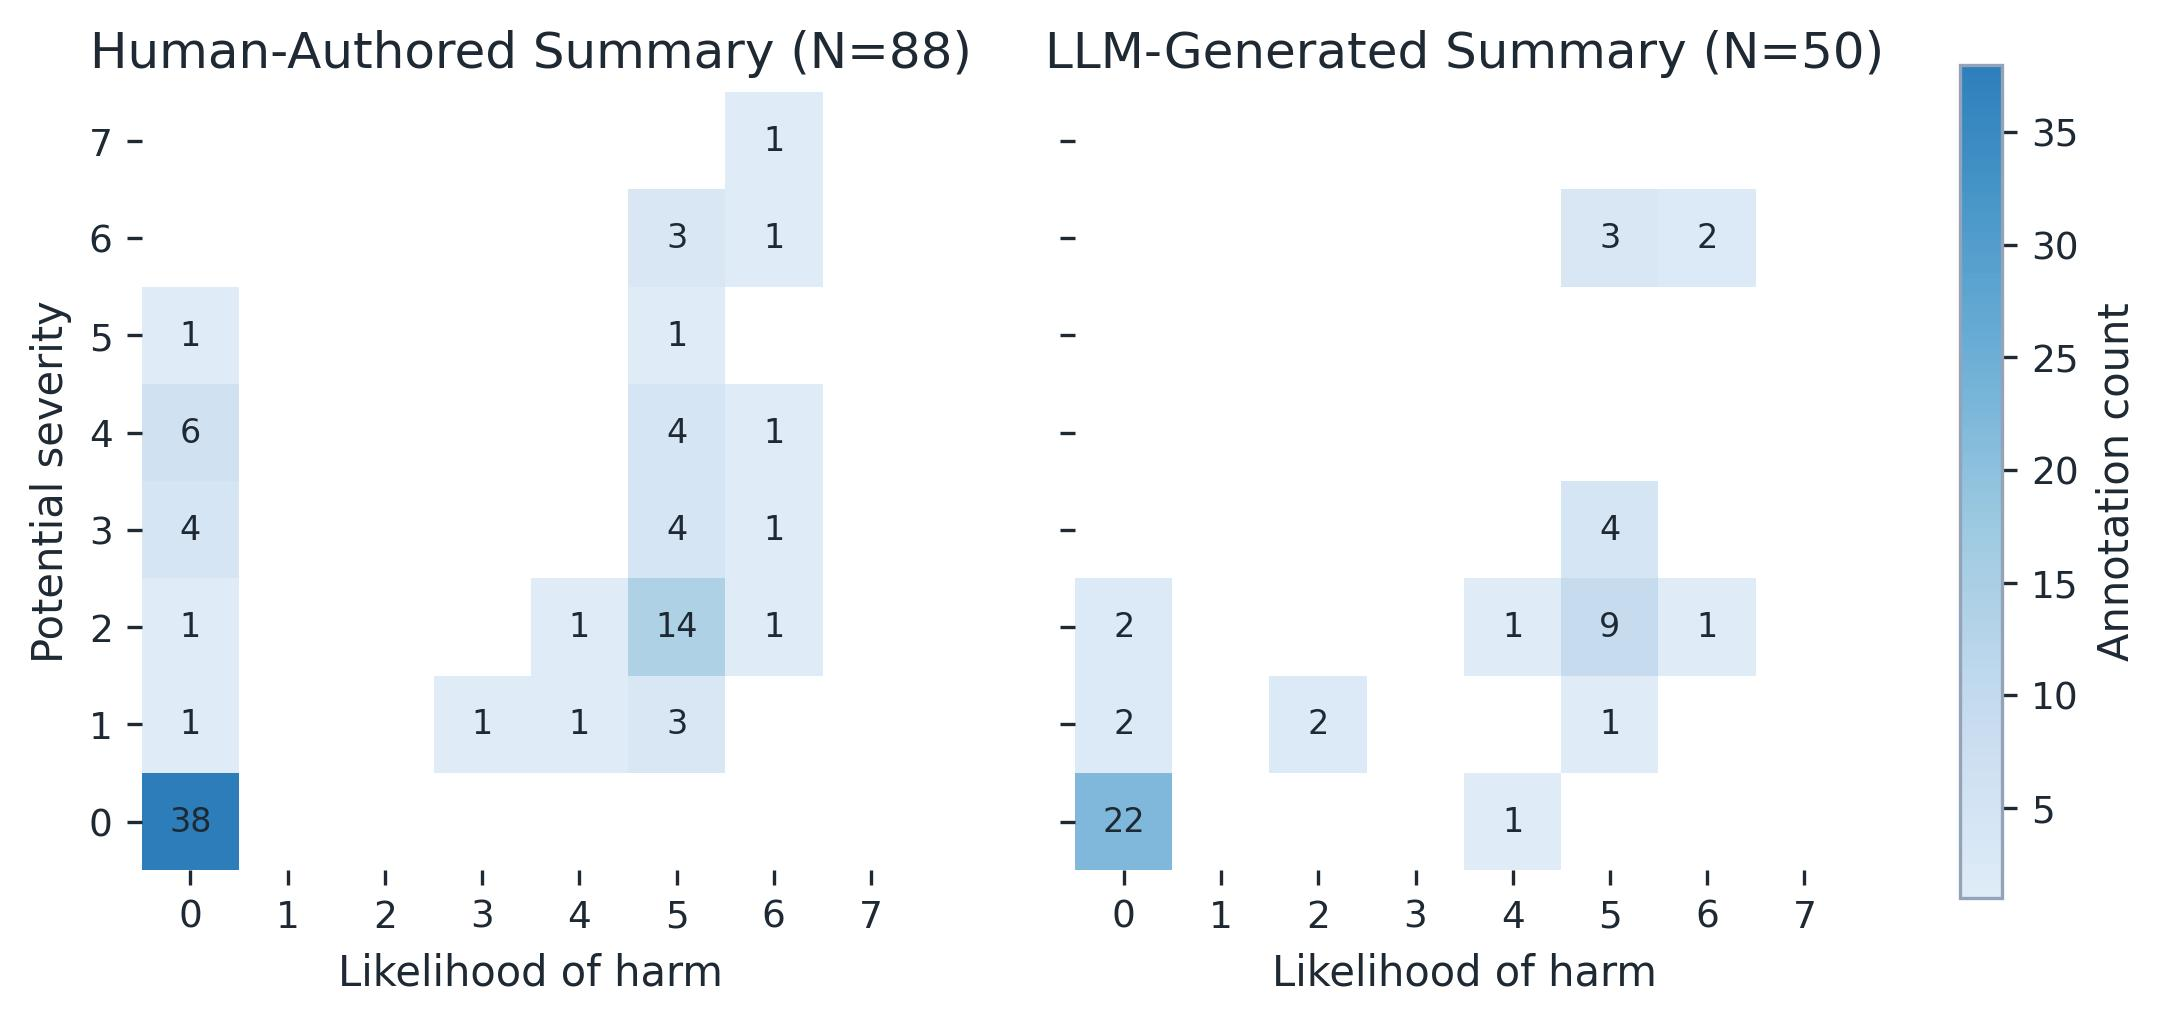
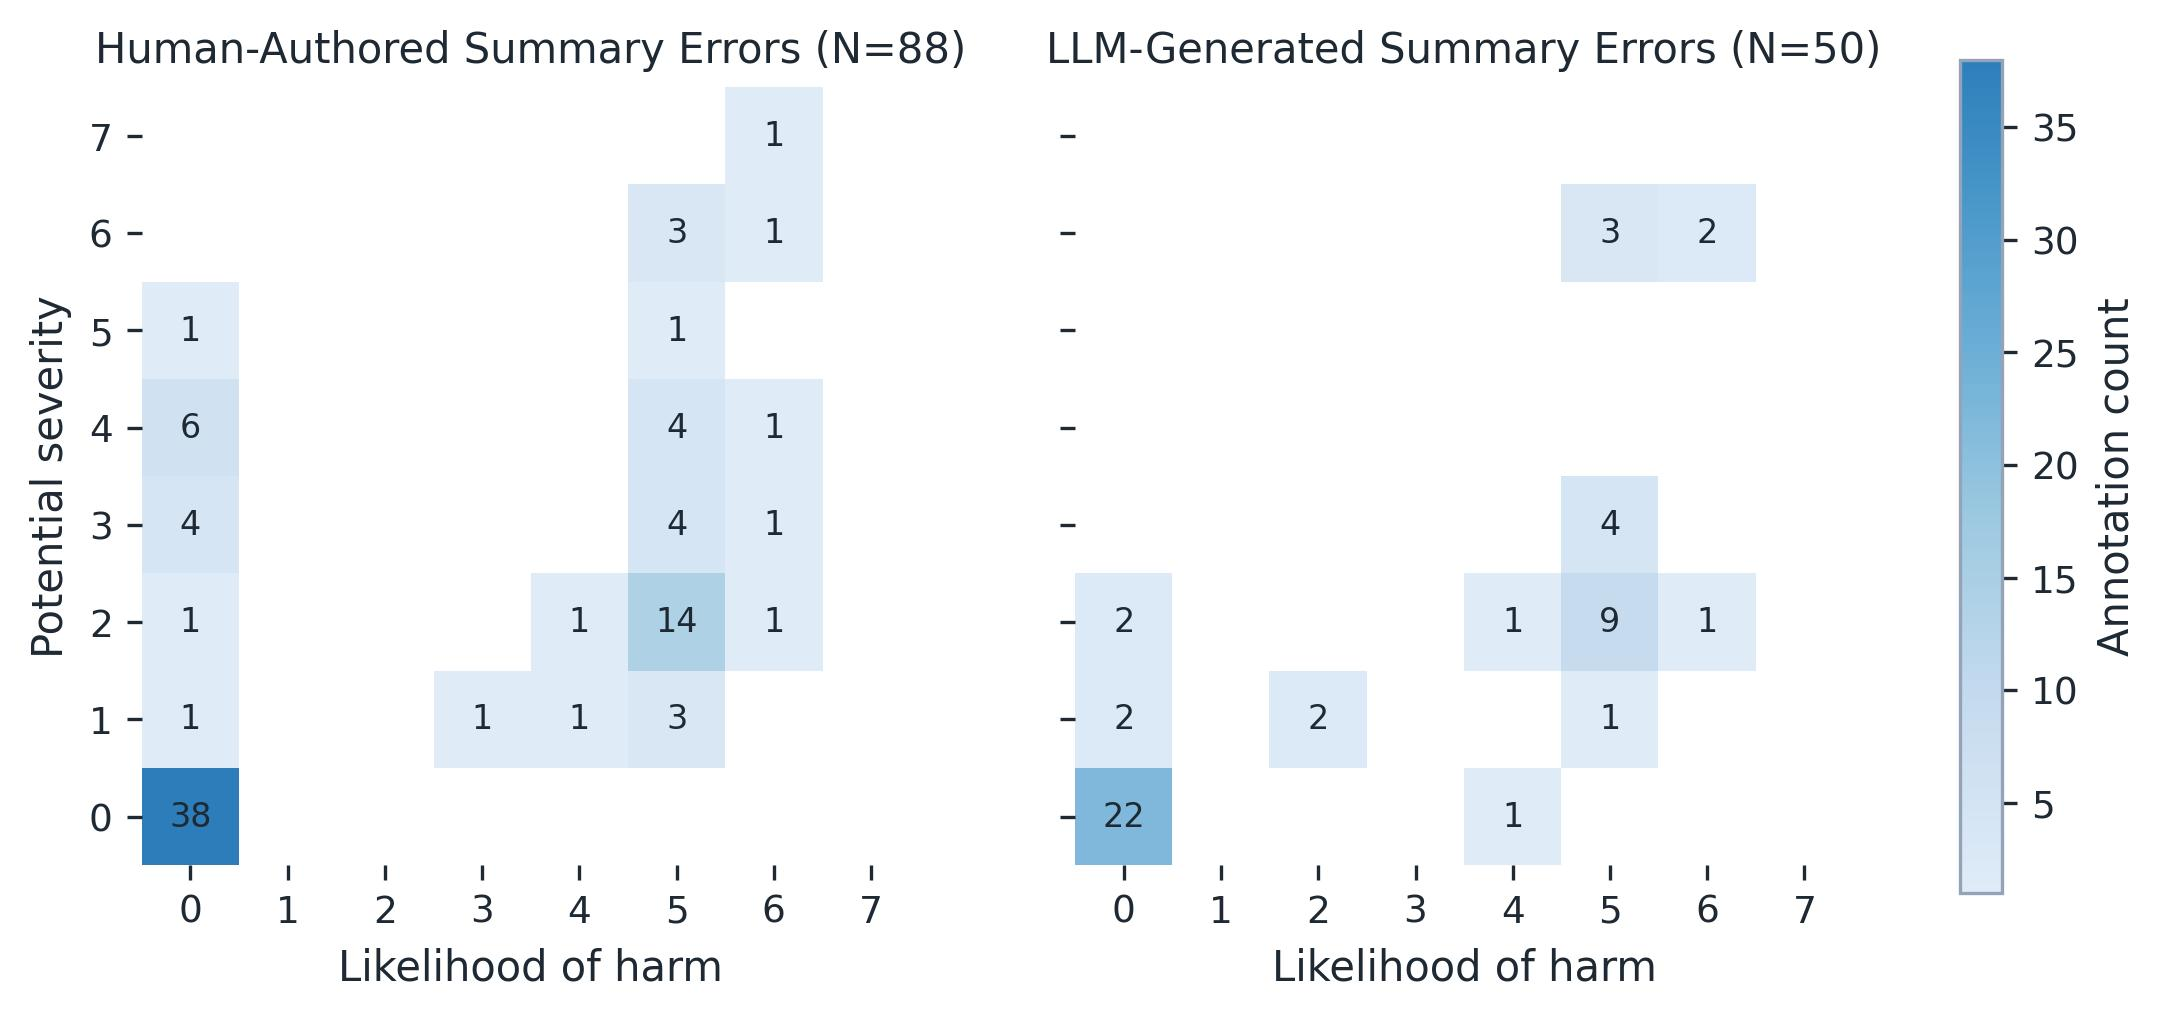
Add files via upload

diff --git a/data_and_results/reproduce_results.py b/data_and_results/reproduce_results.py
@@ -395,7 +395,10 @@ def _plot_annotation_harm_distribution(rows: list[dict[str, str]], path: Path) -
                 value = int(matrix[potential, likelihood])
                 if value:
                     ax.text(likelihood, potential, str(value), ha="center", va="center", fontsize=8)
-        ax.set_title(f"{SUMMARY_TYPE_DISPLAY[summary_type]} (N={annotation_counts[summary_type]})")
+        ax.set_title(
+            f"{SUMMARY_TYPE_DISPLAY[summary_type]} Errors (N={annotation_counts[summary_type]})",
+            fontsize=10,
+        )
         ax.set_xlabel("Likelihood of harm")
         ax.set_xticks(range(8))
         ax.set_yticks(range(8))
